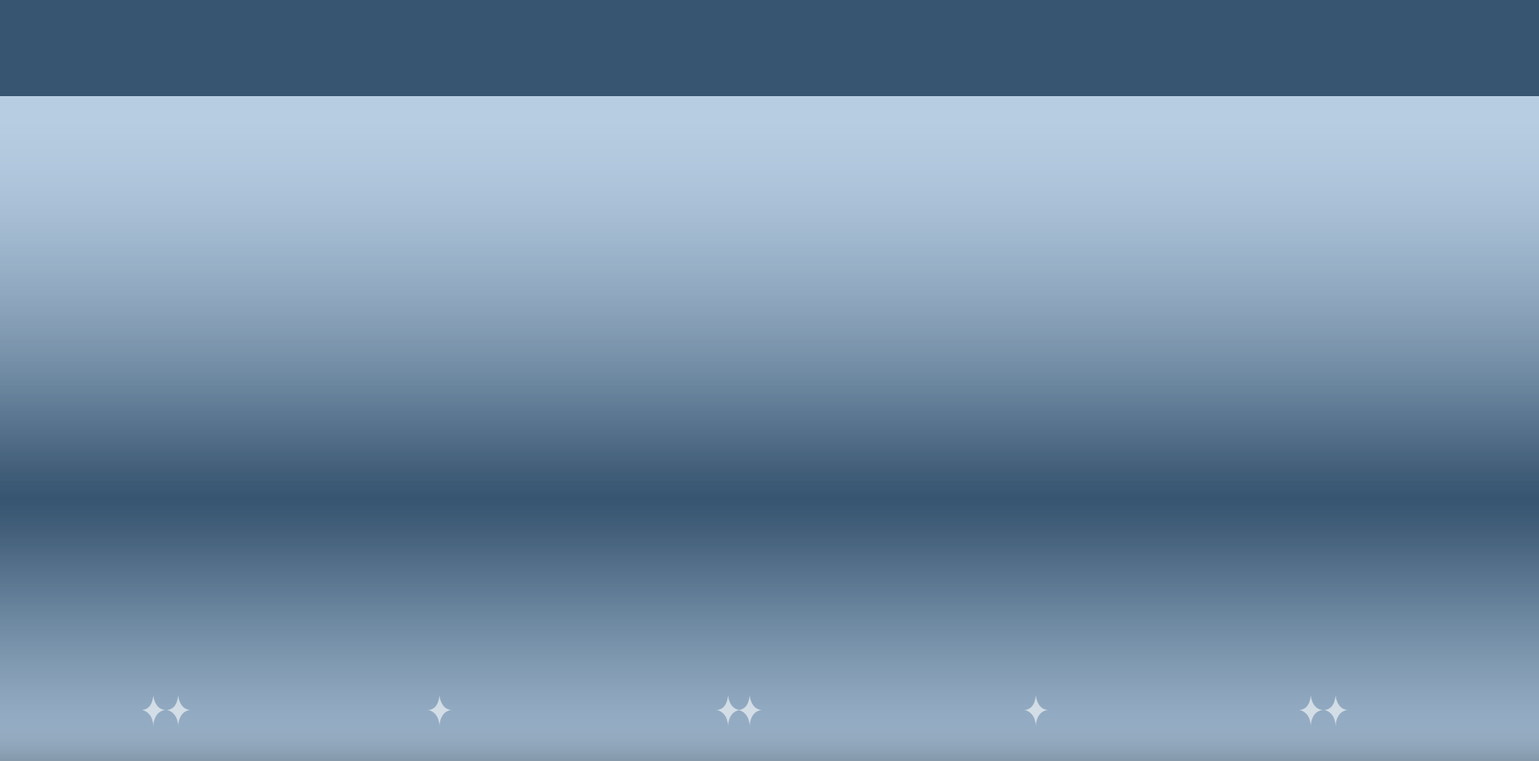
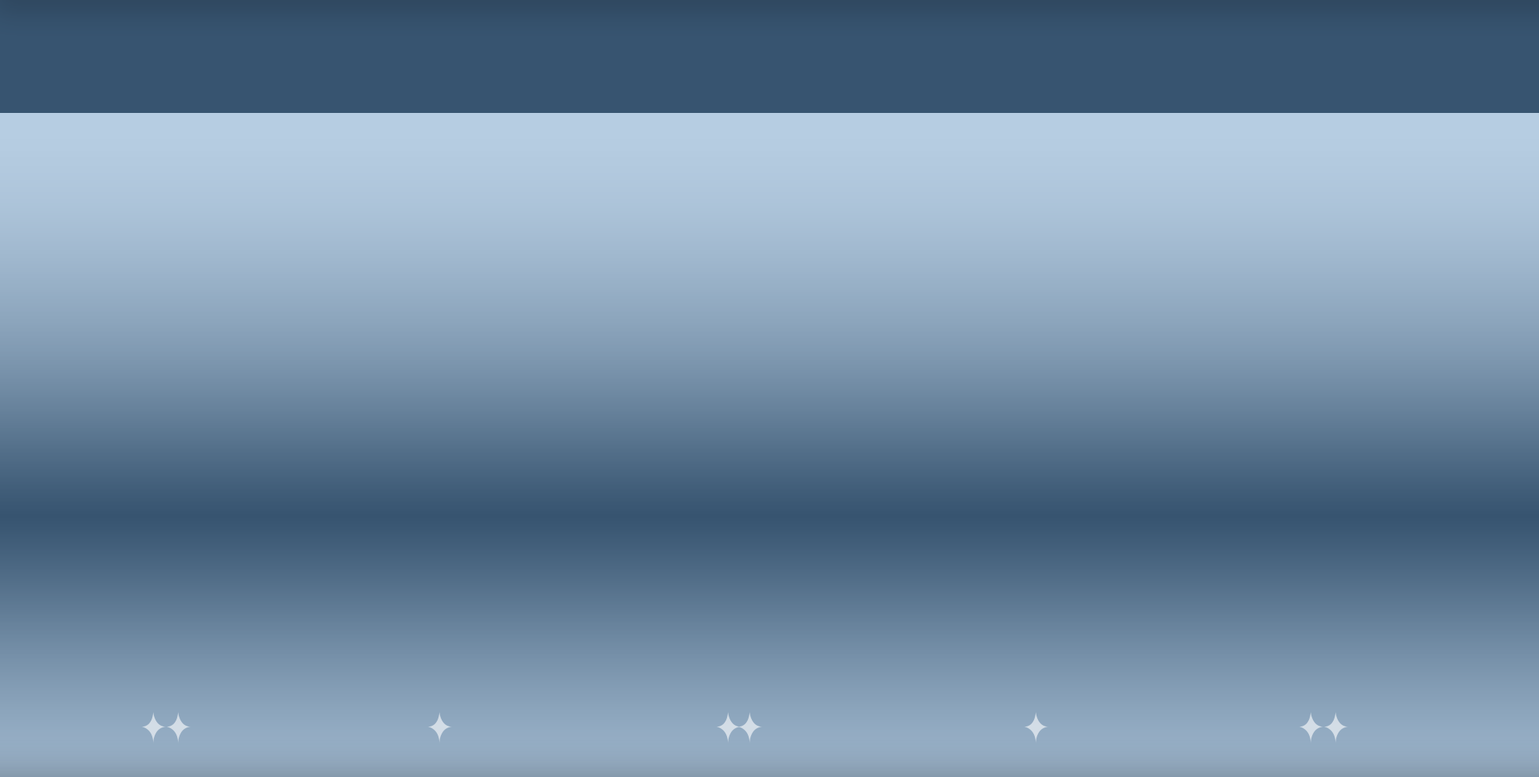
[modify] update image

diff --git a/docs/assets/index-53720fbf.css b/docs/assets/index-53720fbf.css
@@ -1,4 +1,4 @@
-@charset "UTF-8";@import"//fonts.googleapis.com/earlyaccess/notosanstc.css";:root{--vt-c-white: #ffffff;--vt-c-white-soft: #f8f8f8;--vt-c-white-mute: #f2f2f2;--vt-c-black: #181818;--vt-c-black-soft: #222222;--vt-c-black-mute: #282828;--vt-c-indigo: #2c3e50;--vt-c-divider-light-1: rgba(60, 60, 60, .29);--vt-c-divider-light-2: rgba(60, 60, 60, .12);--vt-c-divider-dark-1: rgba(84, 84, 84, .65);--vt-c-divider-dark-2: rgba(84, 84, 84, .48);--vt-c-text-light-1: var(--vt-c-indigo);--vt-c-text-light-2: rgba(60, 60, 60, .66);--vt-c-text-dark-1: var(--vt-c-white);--vt-c-text-dark-2: rgba(235, 235, 235, .64)}:root{--color-background: var(--vt-c-white);--color-background-soft: var(--vt-c-white-soft);--color-background-mute: var(--vt-c-white-mute);--color-border: var(--vt-c-divider-light-2);--color-border-hover: var(--vt-c-divider-light-1);--color-heading: var(--vt-c-text-light-1);--color-text: var(--vt-c-text-light-1);--section-gap: 160px}@media (prefers-color-scheme: dark){:root{--color-background: var(--vt-c-black);--color-background-soft: var(--vt-c-black-soft);--color-background-mute: var(--vt-c-black-mute);--color-border: var(--vt-c-divider-dark-2);--color-border-hover: var(--vt-c-divider-dark-1);--color-heading: var(--vt-c-text-dark-1);--color-text: var(--vt-c-text-dark-2)}}*,*:before,*:after{box-sizing:border-box;margin:0;font-weight:400}body{min-height:100vh;color:var(--color-text);background:var(--color-background);transition:color .5s,background-color .5s;line-height:1.6;font-family:Inter,-apple-system,BlinkMacSystemFont,Segoe UI,Roboto,Oxygen,Ubuntu,Cantarell,Fira Sans,Droid Sans,Helvetica Neue,sans-serif;font-size:15px;text-rendering:optimizeLegibility;-webkit-font-smoothing:antialiased;-moz-osx-font-smoothing:grayscale}html,body{font-family:Noto Sans TC,微軟正黑體,sans-serif!important;padding:0;margin:0;background-color:#bdd6e4!important;-ms-overflow-style:none;scrollbar-width:none}::-webkit-scrollbar{display:none}@media (max-width: 1280px){main #banner_pc{display:none}main #page_intro_pc{display:none}main #story_carousel_pc{display:none}main #story_wall_pc{display:none}main #story_share_pc{display:none}main #champion_pc{display:none}}@media (min-width: 1280px){main #banner_mobile{display:none}main #page_intro_mobile{display:none}main #story_carousel_mobile{display:none}main #story_wall_mobile{display:none}main #story_share_mobile{display:none}main #champion_mobile{display:none}}main #banner_pc{margin-top:60px;height:900px;width:100%;background-image:url(../assets/img/banner_bg.png);background-size:cover;background-position:center center;background-repeat:no-repeat}main #banner_pc .container{height:100%;background-image:url(../assets/img/banner_deco.png);background-size:contain;background-position:center center;background-repeat:no-repeat}main #banner_pc .logo{text-align:right}main #banner_pc .logo img{max-width:600px;width:100%;animation:logoAnimation 10s infinite}@media (max-width: 1400px){main #banner_pc .logo img{margin-top:50px;max-width:550px}}@keyframes logoAnimation{0%{transform:scale(.8)}5%{transform:scale(1.1)}10%{transform:scale(1)}90%{transform:scale(1)}95%{transform:scale(1.1)}to{transform:scale(.8)}}main #banner_pc .car{text-align:center}main #banner_pc .car .animatedNumber{font-size:50px;color:#f75a53;font-weight:600;transform:translateY(180px) translate(85px);position:absolute;rotate:-.5deg}@media (max-width: 1400px){main #banner_pc .car .animatedNumber{transform:translateY(150px) translate(105px);font-size:40px;rotate:-1deg}}main #banner_pc .car img{margin-left:80px;max-width:1000px;width:100%}@media (max-width: 1400px){main #banner_pc .car img{max-width:900px;margin-top:35px}}main #banner_mobile{margin-top:30px;height:1500px;width:100%;background-image:url(../assets/img/banner_deco_mobile.png);background-size:contain;background-position:center center;background-repeat:no-repeat}@media (max-width: 991px){main #banner_mobile{height:1280px}}@media (max-width: 768px){main #banner_mobile{height:1000px}}@media (max-width: 576px){main #banner_mobile{height:750px}}@media (max-width: 400px){main #banner_mobile{height:680px}}main #banner_mobile .logo{text-align:center}main #banner_mobile .logo img{margin-top:50px;max-width:600px;width:100%}@media (max-width: 991px){main #banner_mobile .logo img{margin-top:50px;max-width:450px;width:100%}}@media (max-width: 768px){main #banner_mobile .logo img{margin-top:50px;max-width:350px;width:100%}}@media (max-width: 576px){main #banner_mobile .logo img{margin-top:50px;max-width:250px;width:100%}}main #banner_mobile .car{text-align:center}main #banner_mobile .car img{max-width:900px;width:100%;margin-top:160px}@media (max-width: 991px){main #banner_mobile .car img{max-width:900px;width:100%;margin-top:160px}}@media (max-width: 768px){main #banner_mobile .car img{max-width:900px;width:100%;margin-top:120px}}@media (max-width: 576px){main #banner_mobile .car img{max-width:400px;width:100%;margin-top:80px}}main #banner_mobile .animatedNumber{color:#f75a53;font-weight:600;position:relative;font-size:50px;left:calc(50% - 55px);top:230px}@media (max-width: 991px){main #banner_mobile .animatedNumber{font-size:45px;left:calc(50% - 55px);top:240px}}@media (max-width: 768px){main #banner_mobile .animatedNumber{font-size:35px;left:calc(50% - 40px);top:200px}}@media (max-width: 576px){main #banner_mobile .animatedNumber{font-size:25px;left:calc(50% - 30px);top:150px}}@media (max-width: 400px){main #banner_mobile .animatedNumber{font-size:25px;left:calc(50% - 30px);top:110px}}main #page_intro_pc{height:960px;width:100%;background-image:url(../assets/img/post_bg.png);background-size:cover;background-position:center center;background-repeat:no-repeat}main #page_intro_pc .container{height:100%;background-image:url(../assets/img/post_content_bg.png);background-size:contain;background-position:top center;background-repeat:no-repeat}main #page_intro_pc .container .link{padding:10px 15px;margin:0 3px;background-color:#5d7b97;display:inline-block;color:#fff;font-size:20px}main #page_intro_pc .post_btn{margin-top:-185px}main #page_intro_mobile{height:1500px;width:100%;background-image:url(../assets/img/post_bg_mobile.png);background-size:contain;background-position:top center;background-repeat:no-repeat}main #page_intro_mobile .container{height:100%;background-image:url(../assets/img/post_content_bg_mobile.png);background-size:contain;background-position:top center;background-repeat:no-repeat}@media (max-width: 991px){main #page_intro_mobile{height:1300px}}@media (max-width: 768px){main #page_intro_mobile{height:1000px}}@media (max-width: 576px){main #page_intro_mobile{height:780px}}@media (max-width: 400px){main #page_intro_mobile{height:730px}}main #page_intro_mobile .post_btn{margin-top:-200px}@media (max-width: 991px){main #page_intro_mobile .post_btn{margin-top:-200px}}@media (max-width: 768px){main #page_intro_mobile .post_btn{margin-top:-150px}}@media (max-width: 576px){main #page_intro_mobile .post_btn{margin-top:-110px}}@media (max-width: 400px){main #page_intro_mobile .post_btn{margin-top:-100px}}main #page_intro_mobile .post_btn img{width:100%;max-width:300px}@media (max-width: 768px){main #page_intro_mobile .post_btn img{max-width:250px}}@media (max-width: 576px){main #page_intro_mobile .post_btn img{max-width:220px}}@media (max-width: 400px){main #page_intro_mobile .post_btn img{max-width:200px}}main #story_carousel_pc{height:790px;width:100%;background-image:url(../assets/img/story_bg.png);background-size:cover;background-position:center center;background-repeat:no-repeat}main #story_carousel_pc #story_carousel_title{margin-top:-100px;position:absolute;z-index:1}main #story_carousel_pc #story_carousel{margin-top:70px;position:relative;z-index:1}main #story_carousel_pc .carousel-control-prev{left:-35px;width:30px}main #story_carousel_pc .carousel-control-next{right:-35px;width:30px}main #story_carousel_pc .col-story .story{width:100%;border:15px solid #ccc;height:680px;margin-bottom:50px;background-color:#fff;box-shadow:0 10px 5px -3px #0003;padding:22px 25px}main #story_carousel_pc .col-story .story img{width:100%;margin-bottom:20px}main #story_carousel_pc .col-story .story .story-title{font-size:30px;color:#5d7b97;font-weight:600}main #story_carousel_pc .col-story .story .story-content{font-size:24px;color:#666}main #story_carousel_pc .col-story:first-child{padding-right:25px}main #story_carousel_pc .col-story:last-child{padding-left:25px}main #story_carousel_mobile{height:1024px;width:100%;background-image:url(../assets/img/story_bg_mobile.png);background-size:contain;background-position:top center;background-repeat:no-repeat}@media (max-width: 991px){main #story_carousel_mobile{height:900px}}@media (max-width: 768px){main #story_carousel_mobile{height:690px}}@media (max-width: 576px){main #story_carousel_mobile{height:535px}}@media (max-width: 400px){main #story_carousel_mobile{height:500px}}main #story_carousel_mobile #story_carousel_title{position:relative;z-index:1;margin-top:-35px;text-align:center}main #story_carousel_mobile #story_carousel_title img{width:70%}main #story_carousel_mobile #story_carousel_mobile_container{margin-top:-30px;position:relative;z-index:1}main #story_carousel_mobile .carousel-controls{position:absolute;text-align:center;margin:0 auto;width:100%;bottom:-60px}@media (max-width: 768px){main #story_carousel_mobile .carousel-controls{bottom:-150px}}@media (max-width: 576px){main #story_carousel_mobile .carousel-controls{bottom:-60px}}@media (max-width: 400px){main #story_carousel_mobile .carousel-controls{bottom:-60px}}main #story_carousel_mobile .carousel-controls img{width:30px;margin:0 10px;cursor:pointer}main #story_carousel_mobile .col-story .story{width:80%;border:15px solid #ccc;background-color:#fff;box-shadow:0 10px 5px -3px #0003;padding:22px 25px 0;margin:0 auto}@media (max-width: 768px){main #story_carousel_mobile .col-story .story{width:90%}}@media (max-width: 576px){main #story_carousel_mobile .col-story .story{width:80%}}@media (max-width: 400px){main #story_carousel_mobile .col-story .story{width:98%}}main #story_carousel_mobile .col-story .story img{width:100%;margin-bottom:20px}main #story_carousel_mobile .col-story .story .story-title{font-size:1.2em;color:#5d7b97;font-weight:600}main #story_carousel_mobile .col-story .story .story-content{font-size:.9em;color:#666;height:4.5em;overflow:hidden}main #story_carousel_mobile .col-story:first-child{padding-right:25px}main #story_carousel_mobile .col-story:last-child{padding-left:25px}main #story_wall_pc{height:970px;width:100%;padding:25px 0;overflow:hidden;background-image:url(../assets/img/wall_bg.png);background-size:cover;background-position:center center;background-repeat:no-repeat}main #story_wall_pc .story-wall .container{height:100%;overflow:hidden}main #story_wall_pc .story-wall .story-wall-left .vue3-marquee.vertical,main #story_wall_pc .story-wall .story-wall-right .vue3-marquee.vertical{width:98%;overflow-x:visible!important}main #story_wall_pc .story-wall .story-wall-left .story,main #story_wall_pc .story-wall .story-wall-right .story{background-color:#fff;padding:15px;margin:10px;box-shadow:0 0 15px -3px #0003}main #story_wall_pc .story-wall .story-wall-left .story .story-body,main #story_wall_pc .story-wall .story-wall-right .story .story-body{font-size:20px;margin-top:10px}main #story_wall_pc .story-wall .story-wall-left .story img,main #story_wall_pc .story-wall .story-wall-right .story img{width:100%}main #story_wall_pc .story-wall .story-wall-left .story:hover,main #story_wall_pc .story-wall .story-wall-right .story:hover{animation:scaleUp .5s forwards}@keyframes scaleUp{0%{transform:scale(1)}to{transform:scale(1.05);box-shadow:0 0 5px -3px #000c}}main #story_wall_mobile{height:970px;width:100%;padding:25px 0;overflow:hidden;background-image:url(../assets/img/wall_bg_mobile.png);background-size:cover;background-position:center center;background-repeat:no-repeat}main #story_wall_mobile .story-wall .story-wall-left .vue3-marquee.vertical,main #story_wall_mobile .story-wall .story-wall-right .vue3-marquee.vertical{width:98%}main #story_wall_mobile .story-wall .story-wall-left .story,main #story_wall_mobile .story-wall .story-wall-right .story{background-color:#fff;padding:15px;margin:20px 0 0 10px;box-shadow:0 0 15px -3px #0003}main #story_wall_mobile .story-wall .story-wall-left .story .story-body,main #story_wall_mobile .story-wall .story-wall-right .story .story-body{font-size:20px;margin-top:10px}main #story_wall_mobile .story-wall .story-wall-left .story img,main #story_wall_mobile .story-wall .story-wall-right .story img{width:100%}main #story_share_pc{height:950px;width:100%;overflow:hidden;background-image:url(../assets/img/story_share.png);background-size:cover;background-position:center center;background-repeat:no-repeat}main #story_share_pc .story_share_container{width:100%;overflow-x:scroll;cursor:grab}main #story_share_pc .story_share_container .story_share_row{width:3125px}main #story_share_pc .story_share_container .story_share_row .story_share_col{width:605px;height:580px;background-color:#fff;box-shadow:0 0 26px -3px #0003;display:inline-block;margin:0 10px;padding:20px;-webkit-user-select:none;user-select:none}main #story_share_pc .story_share_container .story_share_row .story_share_col img{width:100%;pointer-events:none}main #story_share_pc .story_share_container .story_share_row .story_share_col .story_share_title{margin:15px 10px 0 15px}main #story_share_pc .story_share_container .story_share_row .story_share_col .story_share_title a{font-size:30px;color:#f75a53;font-weight:600;text-decoration:none}main #story_share_pc .story_share_container .story_share_row .story_share_col .story_share_content{margin:0 15px;font-size:24px}main #story_share_pc .story_share_container .story_share_row .story_share_col .story_share_content a{color:#f75a53;font-weight:600;text-decoration:none}main #story_share_mobile{height:900px;width:100%;overflow:hidden;background-image:url(../assets/img/story_share_mobile.png);background-size:cover;background-position:top center;background-repeat:no-repeat}main #story_share_mobile #story_share_mobile_title img{width:100%}@media (max-width: 991px){main #story_share_mobile{height:800px}}@media (max-width: 768px){main #story_share_mobile{height:800px}}@media (max-width: 576px){main #story_share_mobile{height:600px}}@media (max-width: 400px){main #story_share_mobile{height:600px}}main #story_share_mobile .story_share_container{width:100%;overflow-x:scroll;cursor:grab}main #story_share_mobile .story_share_container .story_share_row{width:1250px}main #story_share_mobile .story_share_container .story_share_row .story_share_col{width:200px;background-color:#fff;box-shadow:0 0 26px -3px #0003;display:inline-block;margin:0 10px;padding:10px;-webkit-user-select:none;user-select:none}main #story_share_mobile .story_share_container .story_share_row .story_share_col img{width:100%;pointer-events:none}main #story_share_mobile .story_share_container .story_share_row .story_share_col .story_share_title{margin:15px 5px 0}main #story_share_mobile .story_share_container .story_share_row .story_share_col .story_share_title a{font-size:1.5em;color:#f75a53;font-weight:600;text-decoration:none}main #story_share_mobile .story_share_container .story_share_row .story_share_col .story_share_content{margin:0 5px;font-size:1.2em;height:9em;overflow:hidden}main #story_share_mobile .story_share_container .story_share_row .story_share_col .story_share_link a{color:#f75a53;font-weight:600;text-decoration:none}main #champion_pc{height:1300px;width:100%;overflow:hidden;background-image:url(../assets/img/champion_bg.png);background-size:cover;background-position:center center;background-repeat:no-repeat}main #champion_pc .champion_left img.champion_title{margin-top:-40px;width:100%;max-width:900px;float:right}main #champion_pc .champion_left img.champion_car{width:100%;max-width:1150px;margin:20px 0}main #champion_pc .champion_left .champion-action-list{margin:0 auto;width:100%;max-width:705px}main #champion_pc .champion_left .champion-action-list img.testdrive{width:100%;max-width:237px;transform:translate(2px)}main #champion_pc .champion_left .champion-action-list img.more{width:100%;max-width:225px;transform:translate(-2px) translateY(-3px)}main #champion_pc .champion_left .champion-action-list img.order{width:100%;max-width:240px}main #champion_pc .champion_right{text-align:left;padding-left:80px;padding-top:35px}main #champion_pc .champion_right img{width:100%;max-width:440px}main #champion_pc .champion_right p{font-size:24px;color:#666;margin:0 0 10px}main #champion_mobile{width:100%;overflow:hidden;background-image:url(../assets/img/champion_bg.png);background-size:cover;background-position:center center;background-repeat:no-repeat}main #champion_mobile .champion_left{text-align:center}main #champion_mobile .champion_left img.champion_title{margin-top:-40px;width:100%;max-width:900px;padding:0 10px}main #champion_mobile .champion_left img.champion_car{width:100%;max-width:1150px;margin:20px 0 0 -20px}main #champion_mobile .champion_right{text-align:center;padding:35px 50px 100px}main #champion_mobile .champion_right img{width:100%;max-width:440px}main #champion_mobile .champion_right p{font-size:20px;color:#666;margin:0 0 10px}main #champion_mobile .champion_right .champion-action-list{position:relative;margin:30px auto 0;width:100%}main #champion_mobile .champion_right .champion-action-list img.testdrive{width:32%;max-width:237px;transform:translate(2px)}main #champion_mobile .champion_right .champion-action-list img.more{width:32%;max-width:225px;transform:translate(-2px) translateY(-1px)}main #champion_mobile .champion_right .champion-action-list img.order{width:32%;max-width:240px}/*!
+@charset "UTF-8";@import"//fonts.googleapis.com/earlyaccess/notosanstc.css";:root{--vt-c-white: #ffffff;--vt-c-white-soft: #f8f8f8;--vt-c-white-mute: #f2f2f2;--vt-c-black: #181818;--vt-c-black-soft: #222222;--vt-c-black-mute: #282828;--vt-c-indigo: #2c3e50;--vt-c-divider-light-1: rgba(60, 60, 60, .29);--vt-c-divider-light-2: rgba(60, 60, 60, .12);--vt-c-divider-dark-1: rgba(84, 84, 84, .65);--vt-c-divider-dark-2: rgba(84, 84, 84, .48);--vt-c-text-light-1: var(--vt-c-indigo);--vt-c-text-light-2: rgba(60, 60, 60, .66);--vt-c-text-dark-1: var(--vt-c-white);--vt-c-text-dark-2: rgba(235, 235, 235, .64)}:root{--color-background: var(--vt-c-white);--color-background-soft: var(--vt-c-white-soft);--color-background-mute: var(--vt-c-white-mute);--color-border: var(--vt-c-divider-light-2);--color-border-hover: var(--vt-c-divider-light-1);--color-heading: var(--vt-c-text-light-1);--color-text: var(--vt-c-text-light-1);--section-gap: 160px}@media (prefers-color-scheme: dark){:root{--color-background: var(--vt-c-black);--color-background-soft: var(--vt-c-black-soft);--color-background-mute: var(--vt-c-black-mute);--color-border: var(--vt-c-divider-dark-2);--color-border-hover: var(--vt-c-divider-dark-1);--color-heading: var(--vt-c-text-dark-1);--color-text: var(--vt-c-text-dark-2)}}*,*:before,*:after{box-sizing:border-box;margin:0;font-weight:400}body{min-height:100vh;color:var(--color-text);background:var(--color-background);transition:color .5s,background-color .5s;line-height:1.6;font-family:Inter,-apple-system,BlinkMacSystemFont,Segoe UI,Roboto,Oxygen,Ubuntu,Cantarell,Fira Sans,Droid Sans,Helvetica Neue,sans-serif;font-size:15px;text-rendering:optimizeLegibility;-webkit-font-smoothing:antialiased;-moz-osx-font-smoothing:grayscale}html,body{font-family:Noto Sans TC,微軟正黑體,sans-serif!important;padding:0;margin:0;background-color:#bdd6e4!important;-ms-overflow-style:none;scrollbar-width:none}::-webkit-scrollbar{display:none}@media (max-width: 1280px){main #banner_pc{display:none}main #page_intro_pc{display:none}main #story_carousel_pc{display:none}main #story_wall_pc{display:none}main #story_share_pc{display:none}main #champion_pc{display:none}}@media (min-width: 1280px){main #banner_mobile{display:none}main #page_intro_mobile{display:none}main #story_carousel_mobile{display:none}main #story_wall_mobile{display:none}main #story_share_mobile{display:none}main #champion_mobile{display:none}}main #banner_pc{margin-top:60px;height:900px;width:100%;background-image:url(../assets/img/banner_bg.png);background-size:cover;background-position:center center;background-repeat:no-repeat}main #banner_pc .container{height:100%;background-image:url(../assets/img/banner_deco.png);background-size:contain;background-position:center center;background-repeat:no-repeat}main #banner_pc .logo{text-align:right}main #banner_pc .logo img{max-width:600px;width:100%;animation:logoAnimation 10s infinite}@media (max-width: 1400px){main #banner_pc .logo img{margin-top:50px;max-width:550px}}@keyframes logoAnimation{0%{transform:scale(.8)}5%{transform:scale(1.1)}10%{transform:scale(1)}90%{transform:scale(1)}95%{transform:scale(1.1)}to{transform:scale(.8)}}main #banner_pc .car{text-align:center}main #banner_pc .car .animatedNumber{font-size:50px;color:#f75a53;font-weight:600;transform:translateY(180px) translate(85px);position:absolute;rotate:-.5deg}@media (max-width: 1400px){main #banner_pc .car .animatedNumber{transform:translateY(150px) translate(105px);font-size:40px;rotate:-1deg}}main #banner_pc .car img{margin-left:80px;max-width:1000px;width:100%}@media (max-width: 1400px){main #banner_pc .car img{max-width:900px;margin-top:35px}}main #banner_mobile{margin-top:30px;height:1500px;width:100%;background-image:url(../assets/img/banner_deco_mobile.png);background-size:contain;background-position:center center;background-repeat:no-repeat}@media (max-width: 991px){main #banner_mobile{height:1280px}}@media (max-width: 768px){main #banner_mobile{height:1000px}}@media (max-width: 576px){main #banner_mobile{height:750px}}@media (max-width: 400px){main #banner_mobile{height:680px}}main #banner_mobile .logo{text-align:center}main #banner_mobile .logo img{margin-top:50px;max-width:600px;width:100%}@media (max-width: 991px){main #banner_mobile .logo img{margin-top:50px;max-width:450px;width:100%}}@media (max-width: 768px){main #banner_mobile .logo img{margin-top:50px;max-width:350px;width:100%}}@media (max-width: 576px){main #banner_mobile .logo img{margin-top:50px;max-width:250px;width:100%}}main #banner_mobile .car{text-align:center}main #banner_mobile .car img{max-width:900px;width:100%;margin-top:160px}@media (max-width: 991px){main #banner_mobile .car img{max-width:900px;width:100%;margin-top:160px}}@media (max-width: 768px){main #banner_mobile .car img{max-width:900px;width:100%;margin-top:120px}}@media (max-width: 576px){main #banner_mobile .car img{max-width:400px;width:100%;margin-top:80px}}main #banner_mobile .animatedNumber{color:#f75a53;font-weight:600;position:relative;font-size:50px;left:calc(50% - 55px);top:230px}@media (max-width: 991px){main #banner_mobile .animatedNumber{font-size:45px;left:calc(50% - 55px);top:240px}}@media (max-width: 768px){main #banner_mobile .animatedNumber{font-size:35px;left:calc(50% - 40px);top:200px}}@media (max-width: 576px){main #banner_mobile .animatedNumber{font-size:25px;left:calc(50% - 30px);top:150px}}@media (max-width: 400px){main #banner_mobile .animatedNumber{font-size:25px;left:calc(50% - 30px);top:110px}}main #page_intro_pc{height:960px;width:100%;background-image:url(../assets/img/post_bg.png);background-size:cover;background-position:center center;background-repeat:no-repeat}main #page_intro_pc .container{height:100%;background-image:url(../assets/img/post_content_bg.png);background-size:contain;background-position:top center;background-repeat:no-repeat}main #page_intro_pc .container .link{padding:10px 15px;margin:0 3px;background-color:#5d7b97;display:inline-block;color:#fff;font-size:20px}main #page_intro_pc .post_btn{margin-top:-185px}main #page_intro_mobile{height:1500px;width:100%;background-image:url(../assets/img/post_bg_mobile.png);background-size:contain;background-position:top center;background-repeat:no-repeat}main #page_intro_mobile .container{height:100%;background-image:url(../assets/img/post_content_bg_mobile.png);background-size:contain;background-position:top center;background-repeat:no-repeat}@media (max-width: 991px){main #page_intro_mobile{height:1300px}}@media (max-width: 768px){main #page_intro_mobile{height:1000px}}@media (max-width: 576px){main #page_intro_mobile{height:780px}}@media (max-width: 400px){main #page_intro_mobile{height:730px}}main #page_intro_mobile .post_btn{margin-top:-200px}@media (max-width: 991px){main #page_intro_mobile .post_btn{margin-top:-200px}}@media (max-width: 768px){main #page_intro_mobile .post_btn{margin-top:-150px}}@media (max-width: 576px){main #page_intro_mobile .post_btn{margin-top:-110px}}@media (max-width: 400px){main #page_intro_mobile .post_btn{margin-top:-100px}}main #page_intro_mobile .post_btn img{width:100%;max-width:300px}@media (max-width: 768px){main #page_intro_mobile .post_btn img{max-width:250px}}@media (max-width: 576px){main #page_intro_mobile .post_btn img{max-width:220px}}@media (max-width: 400px){main #page_intro_mobile .post_btn img{max-width:200px}}main #story_carousel_pc{height:790px;width:100%;background-image:url(../assets/img/story_bg.png);background-size:cover;background-position:center center;background-repeat:no-repeat}main #story_carousel_pc #story_carousel_title{margin-top:-100px;position:absolute;z-index:1;animation:storyCarouselAnimation 10s infinite}@keyframes storyCarouselAnimation{0%{margin-top:-100px}5%{margin-top:-120px}10%{margin-top:-100px}90%{margin-top:-100px}95%{margin-top:-120px}to{margin-top:-100px}}main #story_carousel_pc #story_carousel{margin-top:70px;position:relative;z-index:1}main #story_carousel_pc .carousel-control-prev{left:-35px;width:30px}main #story_carousel_pc .carousel-control-next{right:-35px;width:30px}main #story_carousel_pc .col-story .story{width:100%;border:15px solid #ccc;height:680px;margin-bottom:50px;background-color:#fff;padding:22px 25px}main #story_carousel_pc .col-story .story img{width:100%;margin-bottom:20px}main #story_carousel_pc .col-story .story .story-title{font-size:30px;color:#5d7b97;font-weight:600}main #story_carousel_pc .col-story .story .story-content{font-size:24px;color:#666}main #story_carousel_pc .col-story:first-child{padding-right:25px}main #story_carousel_pc .col-story:last-child{padding-left:25px}main #story_carousel_mobile{height:1024px;width:100%;background-image:url(../assets/img/story_bg_mobile.png);background-size:contain;background-position:top center;background-repeat:no-repeat}@media (max-width: 991px){main #story_carousel_mobile{height:900px}}@media (max-width: 768px){main #story_carousel_mobile{height:690px}}@media (max-width: 576px){main #story_carousel_mobile{height:535px}}@media (max-width: 400px){main #story_carousel_mobile{height:500px}}main #story_carousel_mobile #story_carousel_title{position:relative;z-index:1;margin-top:-35px;text-align:center}main #story_carousel_mobile #story_carousel_title img{width:70%}main #story_carousel_mobile #story_carousel_mobile_container{margin-top:-30px;position:relative;z-index:1}main #story_carousel_mobile .carousel-controls{position:absolute;text-align:center;margin:0 auto;width:100%;bottom:-60px}@media (max-width: 768px){main #story_carousel_mobile .carousel-controls{bottom:-150px}}@media (max-width: 576px){main #story_carousel_mobile .carousel-controls{bottom:-60px}}@media (max-width: 400px){main #story_carousel_mobile .carousel-controls{bottom:-60px}}main #story_carousel_mobile .carousel-controls img{width:30px;margin:0 10px;cursor:pointer}main #story_carousel_mobile .col-story .story{width:80%;border:15px solid #ccc;background-color:#fff;box-shadow:0 10px 5px -3px #0003;padding:22px 25px 0;margin:0 auto}@media (max-width: 768px){main #story_carousel_mobile .col-story .story{width:90%}}@media (max-width: 576px){main #story_carousel_mobile .col-story .story{width:80%}}@media (max-width: 400px){main #story_carousel_mobile .col-story .story{width:98%}}main #story_carousel_mobile .col-story .story img{width:100%;margin-bottom:20px}main #story_carousel_mobile .col-story .story .story-title{font-size:1.2em;color:#5d7b97;font-weight:600}main #story_carousel_mobile .col-story .story .story-content{font-size:.9em;color:#666;height:4.5em;overflow:hidden}main #story_carousel_mobile .col-story:first-child{padding-right:25px}main #story_carousel_mobile .col-story:last-child{padding-left:25px}main #story_wall_pc{height:970px;width:100%;padding:25px 0;overflow:hidden;background-image:url(../assets/img/wall_bg.png);background-size:cover;background-position:center center;background-repeat:no-repeat}main #story_wall_pc .story-wall .container{height:100%;overflow:hidden}main #story_wall_pc .story-wall .story-wall-left .vue3-marquee.vertical,main #story_wall_pc .story-wall .story-wall-right .vue3-marquee.vertical{width:98%;overflow-x:visible!important}main #story_wall_pc .story-wall .story-wall-left .story,main #story_wall_pc .story-wall .story-wall-right .story{background-color:#fff;padding:15px;margin:10px;box-shadow:0 0 15px -3px #0003}main #story_wall_pc .story-wall .story-wall-left .story .story-body,main #story_wall_pc .story-wall .story-wall-right .story .story-body{font-size:20px;margin-top:10px}main #story_wall_pc .story-wall .story-wall-left .story img,main #story_wall_pc .story-wall .story-wall-right .story img{width:100%}main #story_wall_pc .story-wall .story-wall-left .story:hover,main #story_wall_pc .story-wall .story-wall-right .story:hover{animation:scaleUp .5s forwards}@keyframes scaleUp{0%{transform:scale(1)}to{transform:scale(1.05);box-shadow:0 0 5px -3px #000c}}main #story_wall_mobile{height:970px;width:100%;padding:25px 0;overflow:hidden;background-image:url(../assets/img/wall_bg_mobile.png);background-size:cover;background-position:center center;background-repeat:no-repeat}main #story_wall_mobile .story-wall .story-wall-left .vue3-marquee.vertical,main #story_wall_mobile .story-wall .story-wall-right .vue3-marquee.vertical{width:98%}main #story_wall_mobile .story-wall .story-wall-left .story,main #story_wall_mobile .story-wall .story-wall-right .story{background-color:#fff;padding:15px;margin:20px 0 0 10px;box-shadow:0 0 15px -3px #0003}main #story_wall_mobile .story-wall .story-wall-left .story .story-body,main #story_wall_mobile .story-wall .story-wall-right .story .story-body{font-size:20px;margin-top:10px}main #story_wall_mobile .story-wall .story-wall-left .story img,main #story_wall_mobile .story-wall .story-wall-right .story img{width:100%}main #story_share_pc{height:950px;width:100%;overflow:hidden;background-image:url(../assets/img/story_share.png);background-size:cover;background-position:center center;background-repeat:no-repeat}main #story_share_pc .story_share_container{width:100%;overflow-x:scroll;cursor:grab}main #story_share_pc .story_share_container .story_share_row{width:3125px}main #story_share_pc .story_share_container .story_share_row .story_share_col{width:605px;height:580px;background-color:#fff;box-shadow:0 0 26px -3px #0003;display:inline-block;margin:0 10px;padding:20px;-webkit-user-select:none;user-select:none}main #story_share_pc .story_share_container .story_share_row .story_share_col img{width:100%;pointer-events:none}main #story_share_pc .story_share_container .story_share_row .story_share_col .story_share_title{margin:15px 10px 0 15px}main #story_share_pc .story_share_container .story_share_row .story_share_col .story_share_title a{font-size:30px;color:#f75a53;font-weight:600;text-decoration:none}main #story_share_pc .story_share_container .story_share_row .story_share_col .story_share_content{margin:0 15px;font-size:24px}main #story_share_pc .story_share_container .story_share_row .story_share_col .story_share_content a{color:#f75a53;font-weight:600;text-decoration:none}main #story_share_mobile{height:900px;width:100%;overflow:hidden;background-image:url(../assets/img/story_share_mobile.png);background-size:cover;background-position:top center;background-repeat:no-repeat}main #story_share_mobile #story_share_mobile_title img{width:100%}@media (max-width: 991px){main #story_share_mobile{height:800px}}@media (max-width: 768px){main #story_share_mobile{height:800px}}@media (max-width: 576px){main #story_share_mobile{height:600px}}@media (max-width: 400px){main #story_share_mobile{height:600px}}main #story_share_mobile .story_share_container{width:100%;overflow-x:scroll;cursor:grab}main #story_share_mobile .story_share_container .story_share_row{width:1250px}main #story_share_mobile .story_share_container .story_share_row .story_share_col{width:200px;background-color:#fff;box-shadow:0 0 26px -3px #0003;display:inline-block;margin:0 10px;padding:10px;-webkit-user-select:none;user-select:none}main #story_share_mobile .story_share_container .story_share_row .story_share_col img{width:100%;pointer-events:none}main #story_share_mobile .story_share_container .story_share_row .story_share_col .story_share_title{margin:15px 5px 0}main #story_share_mobile .story_share_container .story_share_row .story_share_col .story_share_title a{font-size:1.5em;color:#f75a53;font-weight:600;text-decoration:none}main #story_share_mobile .story_share_container .story_share_row .story_share_col .story_share_content{margin:0 5px;font-size:1.2em;height:9em;overflow:hidden}main #story_share_mobile .story_share_container .story_share_row .story_share_col .story_share_link a{color:#f75a53;font-weight:600;text-decoration:none}main #champion_pc{height:1300px;width:100%;overflow:hidden;background-image:url(../assets/img/champion_bg.png);background-size:cover;background-position:center center;background-repeat:no-repeat}main #champion_pc .champion_left img.champion_title{margin-top:-40px;width:100%;max-width:900px;float:right}main #champion_pc .champion_left img.champion_car{width:100%;max-width:1150px;margin:20px 0}main #champion_pc .champion_left .champion-action-list{margin:0 auto;width:100%;max-width:705px}main #champion_pc .champion_left .champion-action-list img.testdrive{width:100%;max-width:237px;transform:translate(2px)}main #champion_pc .champion_left .champion-action-list img.more{width:100%;max-width:225px;transform:translate(-2px) translateY(-3px)}main #champion_pc .champion_left .champion-action-list img.order{width:100%;max-width:240px}main #champion_pc .champion_right{text-align:left;padding-left:80px;padding-top:35px}main #champion_pc .champion_right img{width:100%;max-width:440px}main #champion_pc .champion_right p{font-size:24px;color:#666;margin:0 0 10px}main #champion_mobile{width:100%;overflow:hidden;background-image:url(../assets/img/champion_bg.png);background-size:cover;background-position:center center;background-repeat:no-repeat}main #champion_mobile .champion_left{text-align:center}main #champion_mobile .champion_left img.champion_title{margin-top:-40px;width:100%;max-width:900px;padding:0 10px}main #champion_mobile .champion_left img.champion_car{width:100%;max-width:1150px;margin:20px 0 0 -20px}main #champion_mobile .champion_right{text-align:center;padding:35px 50px 100px}main #champion_mobile .champion_right img{width:100%;max-width:440px}main #champion_mobile .champion_right p{font-size:20px;color:#666;margin:0 0 10px}main #champion_mobile .champion_right .champion-action-list{position:relative;margin:30px auto 0;width:100%}main #champion_mobile .champion_right .champion-action-list img.testdrive{width:32%;max-width:237px;transform:translate(2px)}main #champion_mobile .champion_right .champion-action-list img.more{width:32%;max-width:225px;transform:translate(-2px) translateY(-1px)}main #champion_mobile .champion_right .champion-action-list img.order{width:32%;max-width:240px}/*!
 * Bootstrap  v5.3.3 (https://getbootstrap.com/)
 * Copyright 2011-2024 The Bootstrap Authors
 * Licensed under MIT (https://github.com/twbs/bootstrap/blob/main/LICENSE)

diff --git a/src/assets/main.scss b/src/assets/main.scss
@@ -375,7 +375,30 @@ main{
             margin-top: -100px;
             position: absolute;
             z-index: 1;
+            animation: storyCarouselAnimation 10s infinite;
+            @keyframes storyCarouselAnimation {
+                0% {
+                    margin-top: -100px;
+                }
+                5% {
+                    margin-top: -120px;
+                }
+                10% {
+                    margin-top: -100px;
+                }
+                90% {
+                    margin-top: -100px;
+                }
+                95%{
+                    margin-top: -120px;
+                }
+                100% {
+                    margin-top: -100px;
+                }
+            }
         }
+
+
 
         #story_carousel{
             margin-top: 70px;
@@ -400,7 +423,6 @@ main{
                 height: 680px;
                 margin-bottom: 50px;
                 background-color: #fff;
-                box-shadow: 0px 10px 5px -3px rgba(0,0,0,0.2);
                 padding: 22px 25px;
                 img{
                     width: 100%;

diff --git a/docs/404.html b/docs/404.html
@@ -12,8 +12,8 @@
   <link rel="manifest" href="/public/img/icons/manifest.json">
 
 
-  <script type="module" crossorigin src="/assets/index-a5419d9e.js"></script>
-  <link rel="stylesheet" href="/assets/index-f247c87d.css">
+  <script type="module" crossorigin src="/assets/index-88c8be84.js"></script>
+  <link rel="stylesheet" href="/assets/index-53720fbf.css">
 </head>
 
 <body>

diff --git a/docs/index.html b/docs/index.html
@@ -12,8 +12,8 @@
   <link rel="manifest" href="/public/img/icons/manifest.json">
 
 
-  <script type="module" crossorigin src="/assets/index-a5419d9e.js"></script>
-  <link rel="stylesheet" href="/assets/index-f247c87d.css">
+  <script type="module" crossorigin src="/assets/index-88c8be84.js"></script>
+  <link rel="stylesheet" href="/assets/index-53720fbf.css">
 </head>
 
 <body>
